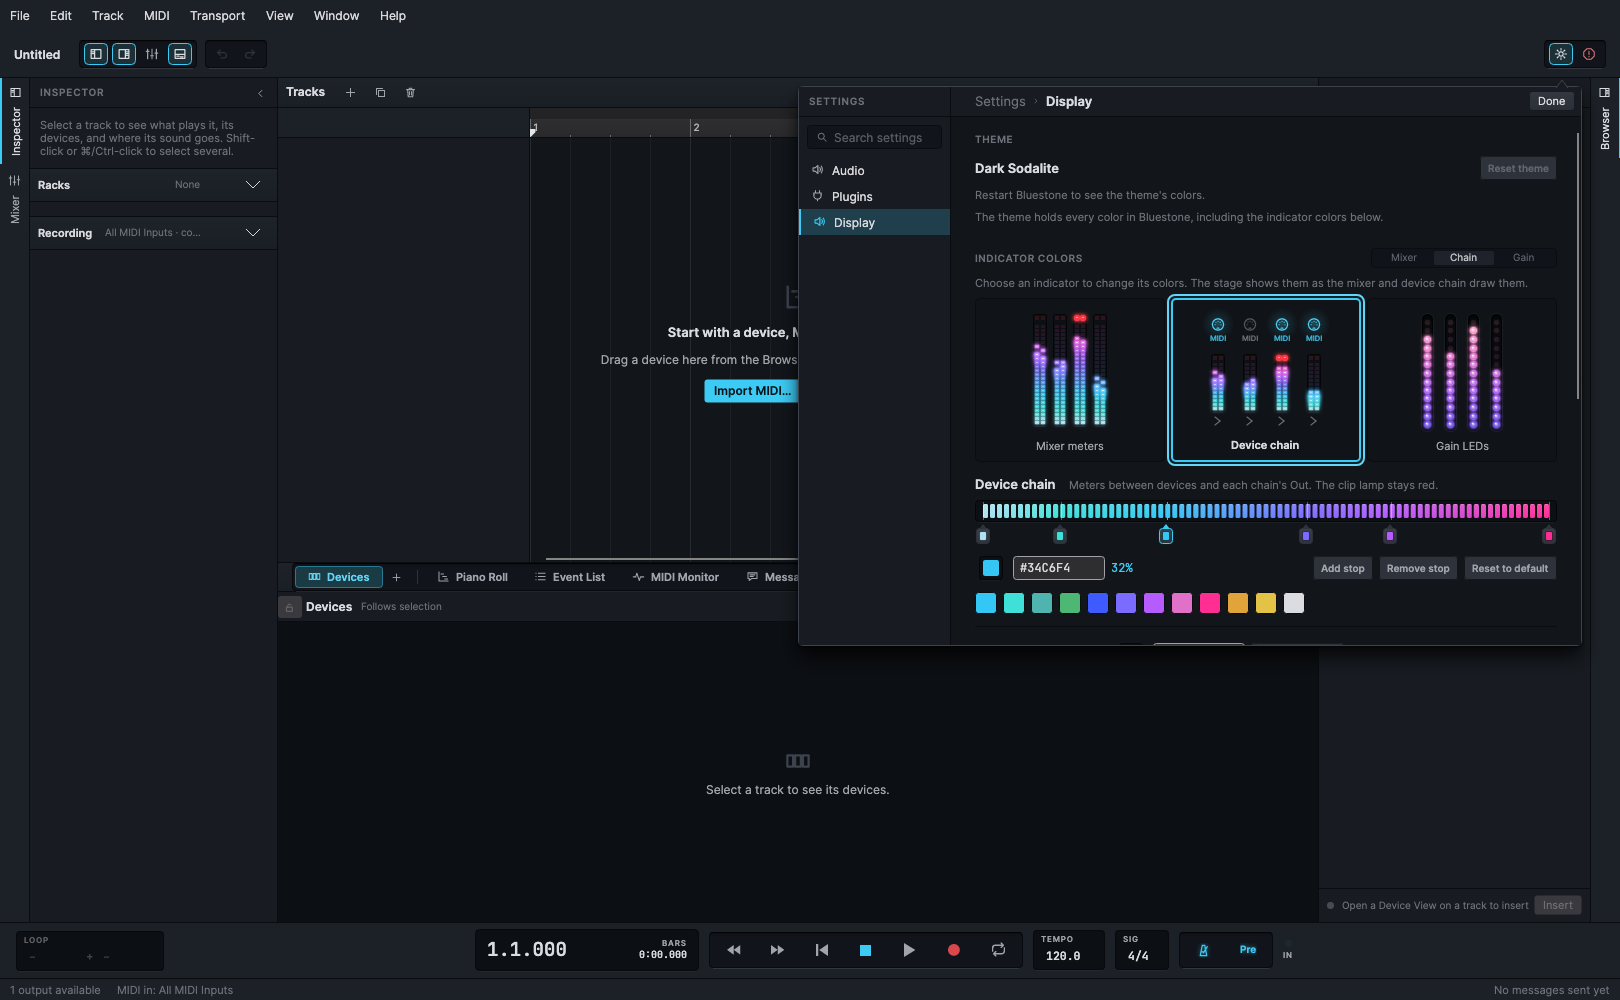
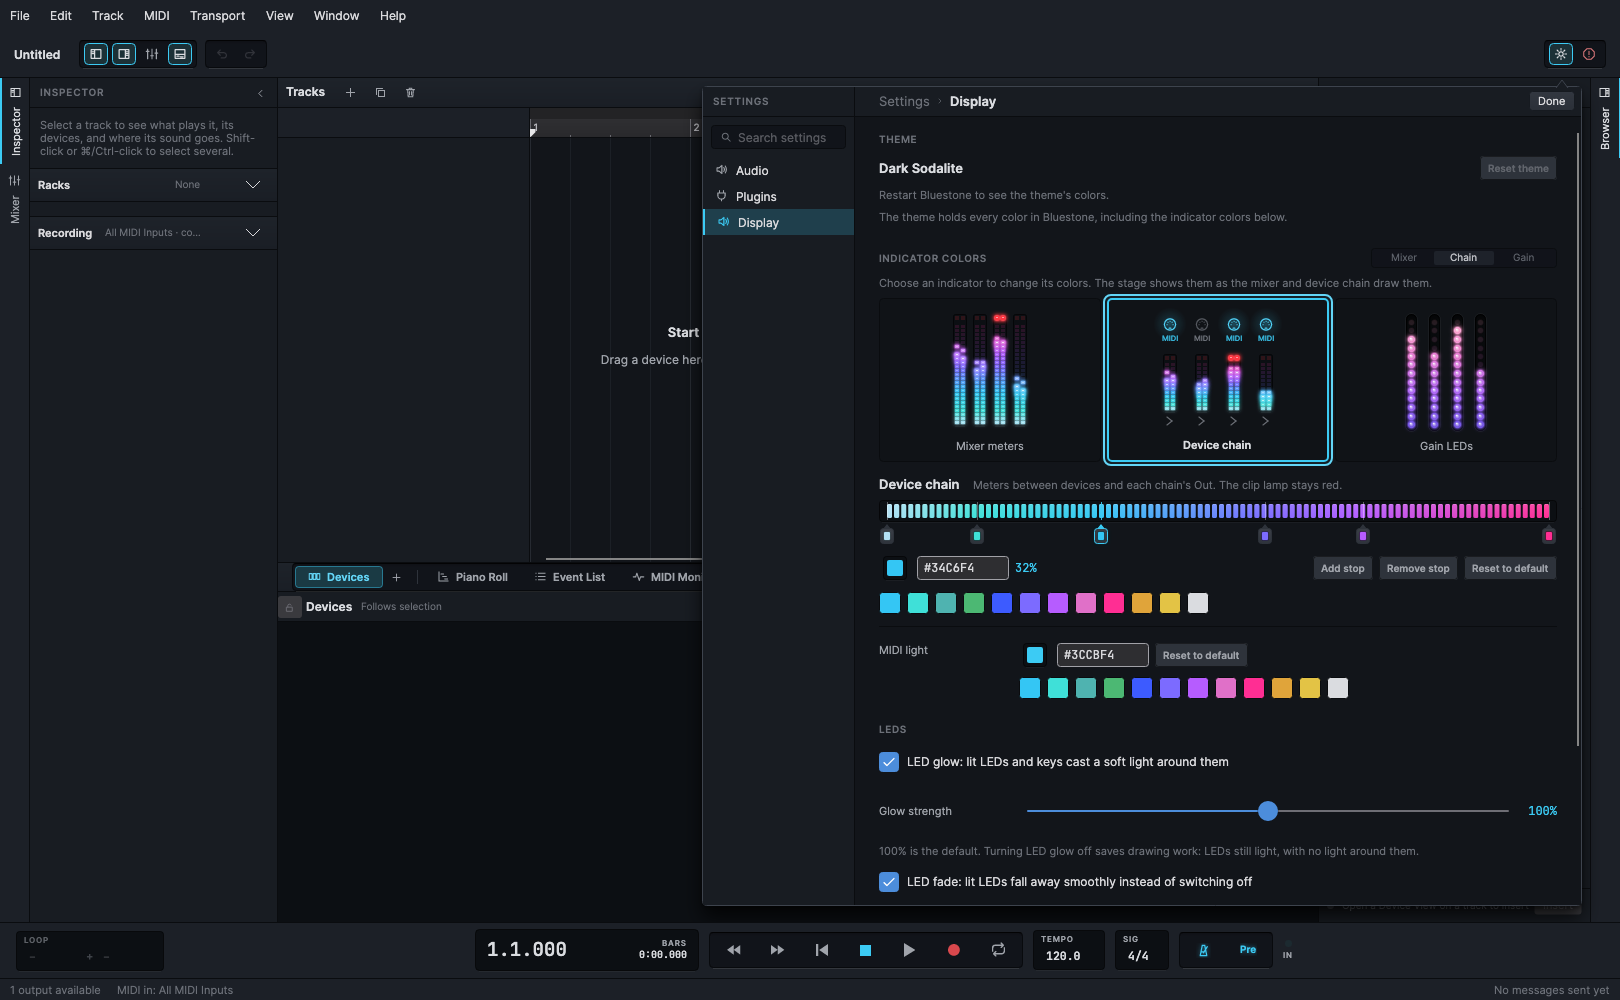
Give the Settings popover more room
The popover may now grow to 880 wide and 840 tall (the workspace still bounds
it), with the page column up to 720, so the Display page and others rarely
scroll. The picker test that clicks a field outside Settings now picks one the
taller picker can't cover.

diff --git a/src/dotnet/Bluestone.Tests.Ui/SettingsTests.cs b/src/dotnet/Bluestone.Tests.Ui/SettingsTests.cs
@@ -420,8 +420,8 @@ public sealed class SettingsTests : IDisposable
         var host = app.Find<SettingsView>("SettingsHost");
         Assert.True(host.IsEffectivelyVisible);
         var hostBounds = new Rect(app.InWindow(host, default), host.Bounds.Size);
-        Assert.InRange(hostBounds.Width, 500, 800);
-        Assert.InRange(hostBounds.Height, 200, 560);
+        Assert.InRange(hostBounds.Width, 500, 880);
+        Assert.InRange(hostBounds.Height, 200, 840);
         Assert.True(hostBounds.Left > workspaceBounds.Left + 100);
         // The popover stops clear of the right rail, so the rotated Browser label is never covered.
         var rail = app.Find<Border>("RightRail");

diff --git a/src/dotnet/Bluestone.Tests.Ui/ColourPickerTests.cs b/src/dotnet/Bluestone.Tests.Ui/ColourPickerTests.cs
@@ -278,8 +278,9 @@ public sealed class ColourPickerTests : IDisposable
 
             if (close == "Outside")
             {
+                // A field at the transport's far left: the open picker can reach down over the transport's middle.
                 Control target = midi
-                    ? app.Find<TextBox>("TempoBox")
+                    ? app.Find<TextBox>("LoopStartBox")
                     : AppUnderTest.Within<Button>(app.Window, b => AutomationProperties.GetName(b) == "New track");
                 var point = app.InWindow(target, new Point(target.Bounds.Width / 2, target.Bounds.Height / 2));
                 app.Window.MouseDown(point, MouseButton.Left);

diff --git a/docs/user-guide.md b/docs/user-guide.md
@@ -22,7 +22,7 @@ The toolbar at the top shows or hides the inspector, Browser, Mixer, and editors
 
 Open **Settings** from the toolbar, the menu, or Ctrl/Cmd + ,. **Window ▸ Audio Settings…** and **Window ▸ Plugins…** open their pages directly.
 
-Settings opens in a compact popover on the right, over the workspace, which stays visible ([ADR 0051](adr/0051-settings-popover.md)). **Done**, Escape, clicking outside it, or tabbing out of it closes it; Escape closes an open list or color picker first. Shortcuts that edit the project, such as Ctrl/Cmd + T, close Settings before they act; single-key shortcuts such as I do nothing while Settings is open. Opening or closing Settings alone doesn't change your project or workspace, but a value you're still typing (such as the tempo or a name) is committed when Settings opens, just as when you click elsewhere.
+Settings opens in a popover on the right, over the workspace, growing to the window's height so most pages fit without scrolling, which stays visible ([ADR 0051](adr/0051-settings-popover.md)). **Done**, Escape, clicking outside it, or tabbing out of it closes it; Escape closes an open list or color picker first. Shortcuts that edit the project, such as Ctrl/Cmd + T, close Settings before they act; single-key shortcuts such as I do nothing while Settings is open. Opening or closing Settings alone doesn't change your project or workspace, but a value you're still typing (such as the tempo or a name) is committed when Settings opens, just as when you click elsewhere.
 
 ## Reading the lights
 
